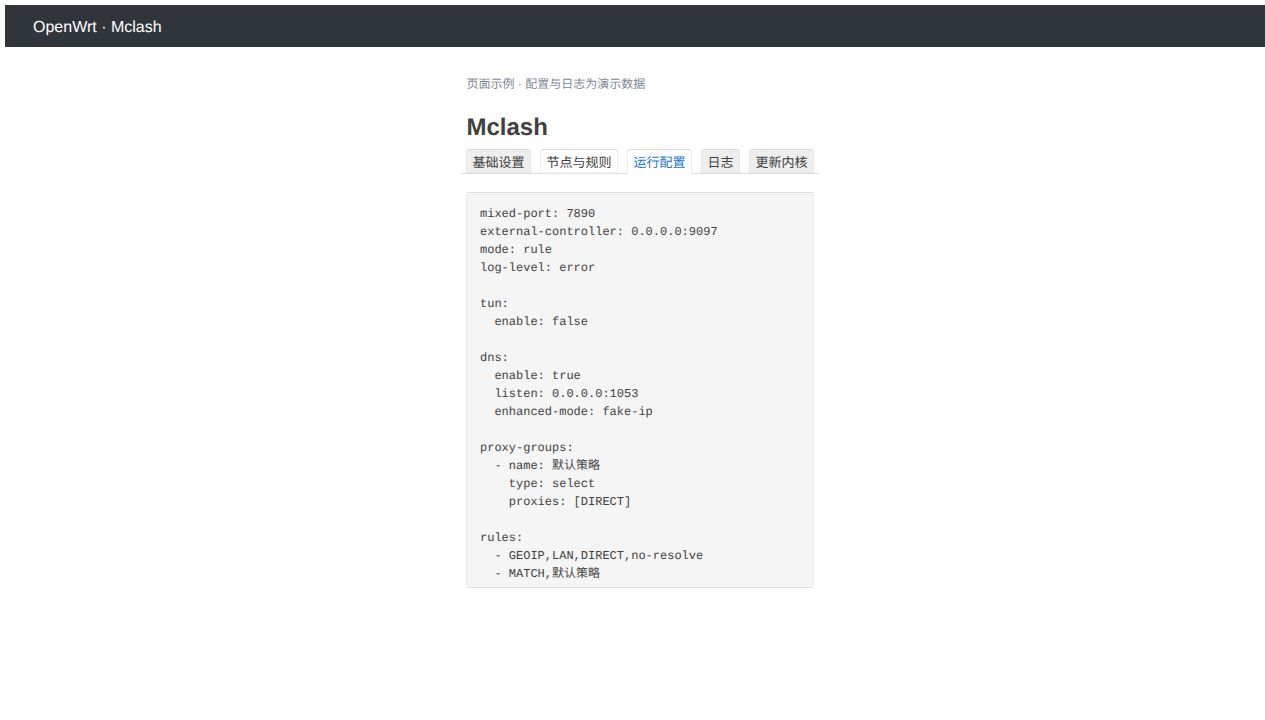
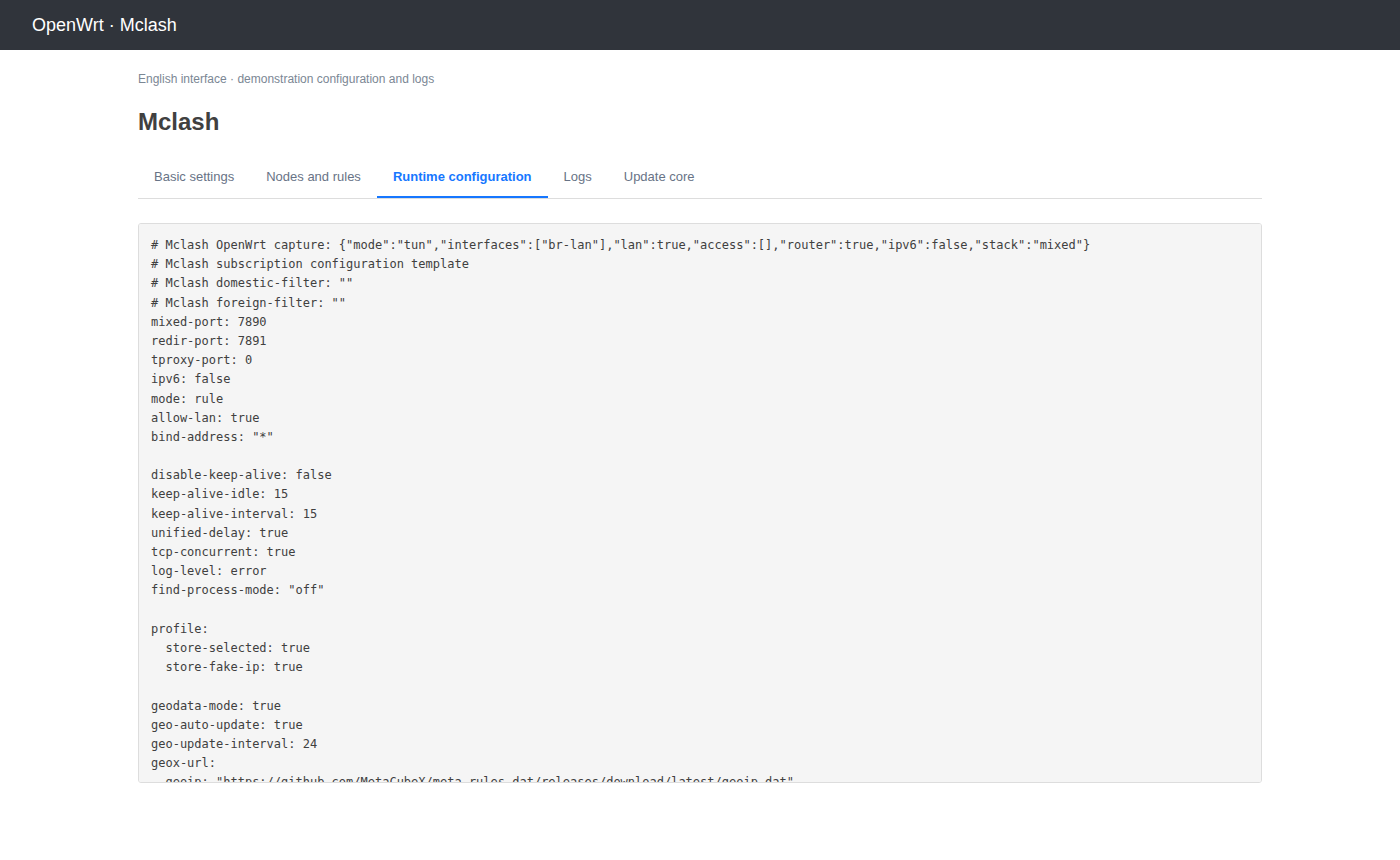
docs: refresh English screenshots for v2.0.0

diff --git a/README.md b/README.md
@@ -9,6 +9,8 @@ A Mihomo manager for OpenWrt with TUN/TProxy capture, subscriptions, nodes, prox
 
 ## Install
 
+Current release: **v2.0.0** (`2.0.0-r1`).
+
 Download the APK or IPK matching your firmware from [Releases](https://github.com/liuyi-htu/luci-app-mclash/releases/latest). Install `luci-i18n-mclash-zh-cn` for Chinese translations. Mihomo is installed separately through the plugin.
 
 ## Documentation
